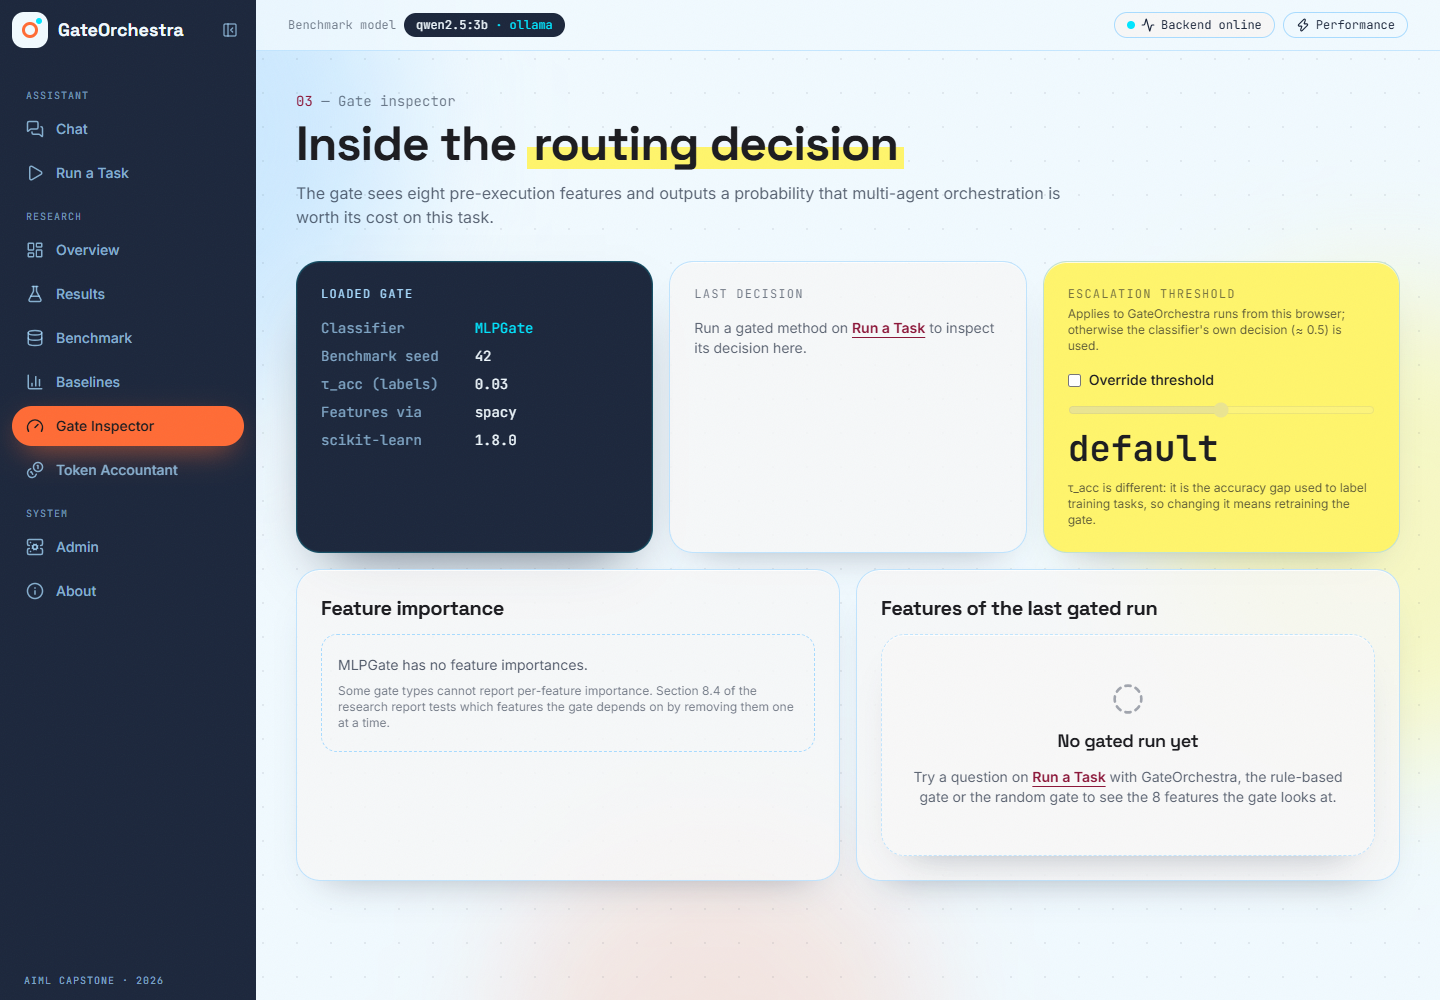
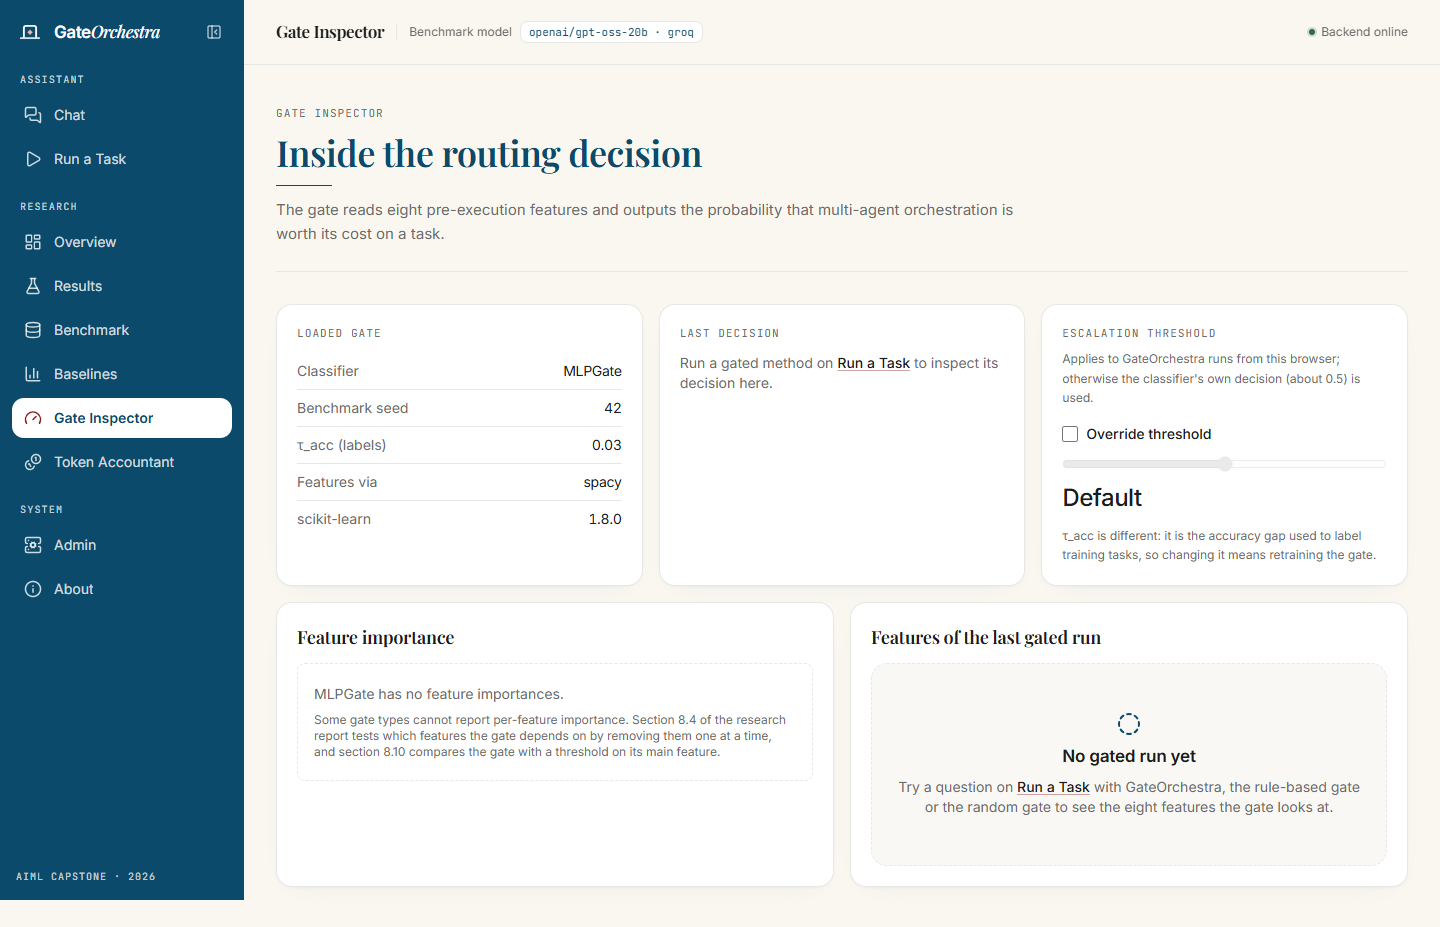
Show the redesigned console in the README
The screenshots in the README still showed the old theme. Replace all eight
with captures of the current console, taken from the running app with the API
live, so the figures on them are real benchmark output.

Add two screens the README did not show: the chat, mid-conversation, with the
routing badge, token cost and latency under each answer; and the admin page.
The console table gains the gate inspector and run-a-task rows.

The new captures are smaller than the ones they replace: 1.7 MB in total,
down from 6.4 MB.

diff --git a/README.md b/README.md
@@ -93,21 +93,29 @@ fact-checked by the assistant (`dataset/masbench_mini/REVIEW.json` says who revi
 
 ## Console
 
+Every screen below is a capture of the running console with the API live, so the figures are real
+benchmark output rather than mock-ups.
+
 | Overview | Results |
 | :---: | :---: |
-| ![Overview](assets/screenshots/overview.png) | ![Results](assets/screenshots/results.png) |
+| ![Overview: the pipeline summary and headline figures](assets/screenshots/overview.png) | ![Results: accuracy against tokens, the Depth x Parallel heatmap and the method table](assets/screenshots/results.png) |
 | **Baselines** | **Token accountant** |
-| ![Baselines](assets/screenshots/baselines.png) | ![Token accountant](assets/screenshots/token_accountant.png) |
+| ![Baselines: the gate measured against always and never escalating](assets/screenshots/baselines.png) | ![Token accountant: where the tokens went, per stage](assets/screenshots/token_accountant.png) |
+| **Gate inspector** | **Run a task** |
+| ![Gate inspector: the eight pre-execution features behind a decision](assets/screenshots/gate_inspector.png) | ![Run a task: one question through the live pipeline, with the gate drawn beside it](assets/screenshots/run_task.png) |
 
-More pages in [`assets/screenshots/`](assets/screenshots/).
+More pages — benchmark, admin and about — in [`assets/screenshots/`](assets/screenshots/).
 
 ---
 
 ## Chat assistant
 
+![The chat answering two arithmetic questions, each labelled with how it was answered, the tokens it cost and how long it took](assets/screenshots/chat.png)
+
 The **Chat** page answers any question: explanations, code, math, facts, and questions about
 documents you upload. It runs on Groq by default, falls back to Gemini, and can fall back to a
-local Ollama model.
+local Ollama model. Every answer carries how it was reached — answered directly or researched
+with tools — along with its token cost and latency, so the routing decision is always visible.
 
 **Measured accuracy** (`python scripts/chat_eval.py`, [`reports/chat_eval.md`](reports/chat_eval.md)): on 80 questions
 with checkable answers (facts, arithmetic, multi-step questions, Python output), answering directly was right
